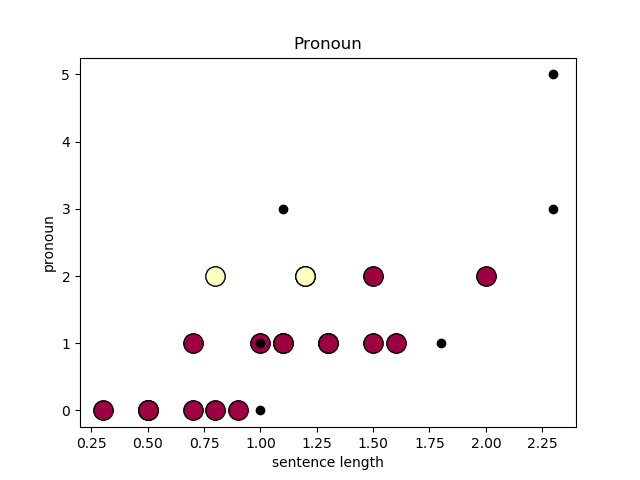
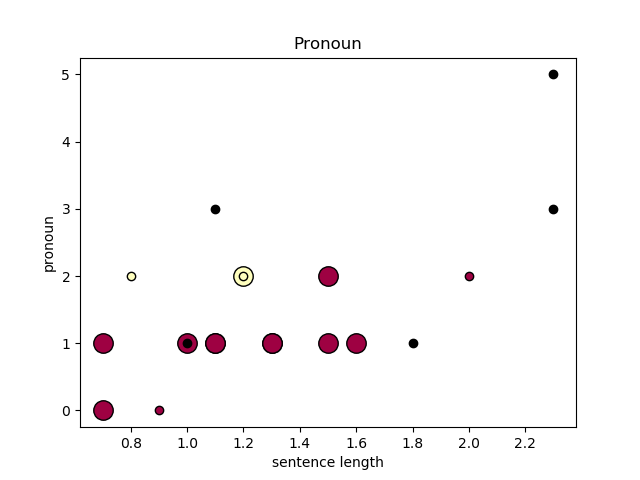
clustering parameters updated

diff --git a/app.py b/app.py
@@ -99,7 +99,7 @@ def plagiarismDetection():
 
         # Compute DBSCAN
         X=new
-        db = DBSCAN(eps=0.5, min_samples=5).fit(X)
+        db = DBSCAN(eps=1, min_samples=3).fit(X)
         #core_samples_mask = np.zeros_like(db.labels_, dtype=bool)
         core_samples_mask= np.zeros(len(db.labels_),dtype=bool)
         for ele in db.core_sample_indices_:
@@ -173,7 +173,10 @@ def plagiarismDetection():
         fig0.clf()
         fig1.clf()
         fig2.clf()
-        max=np.argmax(clusterFrequency)
+        if(n_clusters!=0):
+            max=np.argmax(clusterFrequency)
+        else:
+            max= 0
         for i in range(len(labels)):
             if(labels[i]==-1):
                 print(segments[i])
